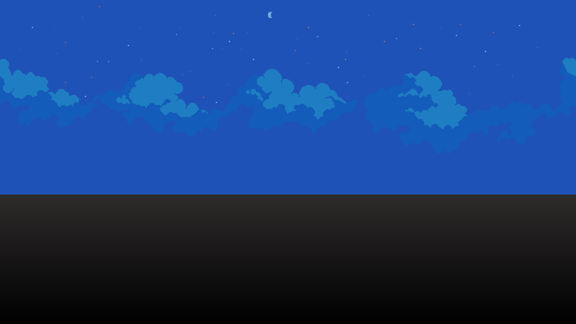
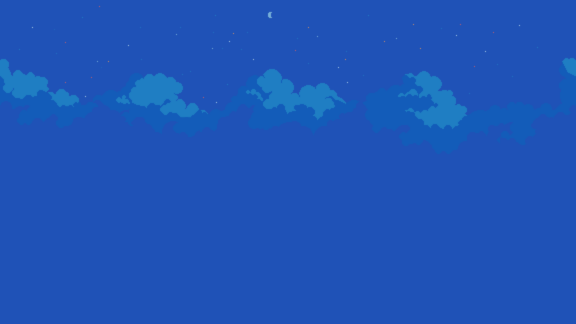
Ajout Image fond et Sprite animé

diff --git a/main.py b/main.py
@@ -2,21 +2,10 @@ import pygame
 import time
 
 # Variables Globales
-# Fenetre
-L = 1300
-H = 800
-
-# Perso
-x = L // 2
-y = H // 2
+L, H = 1300, 800
+x, y = (L-256) // 2, H // 2
 force_vert = 0
 gravite = 0.2
-
-# Utilitaires
-distance = 0
-couleur = (153, 255, 255)
-
-# Fond
 fond_x = 0
 vitesse_fond = 2
 
@@ -24,13 +13,21 @@ def run():
     global fond_x, y, force_vert
     pygame.init()
     clock = pygame.time.Clock()
-    pygame.display.set_caption("Get What U Need")
     screen = pygame.display.set_mode((L, H))
+    pygame.display.set_caption("Get What U Need")
+
+    # Animation
+    frame_index = 0
+    vitesse_anim = 0.13
+
+    # Assets
+    bg_img = pygame.image.load("assets/graphics/environment/background/ville/1.png").convert()
+    bg_img = pygame.transform.scale(bg_img, (L, H))
     
-    x = L // 2
-    y = H // 2
-    force_vert = 0
-    gravite = 0.2
+    p_img = pygame.image.load("assets/graphics/characters/player/run.png").convert_alpha()
+    p_img = pygame.transform.scale(p_img, (2560, 320))
+
+    limite_sol = H - 100 - 320
 
     while True:
         for event in pygame.event.get():
@@ -38,39 +35,43 @@ def run():
                 pygame.quit()
                 return
         
-        pygame.display.set_caption("Get What U Need - {}".format(time.strftime("%Hh%M")))
-        screen.fill((255, 255, 255))
-
+        # Logique de mouvement et saut
         touches = pygame.key.get_pressed()
-        if touches[pygame.K_SPACE] and y == H - 200: force_vert = -10
+        if touches[pygame.K_SPACE] and y >= limite_sol:
+            force_vert = -10
 
+        # Background
         fond_x -= vitesse_fond
-        if fond_x < -2 * L:
+        if fond_x <= -L:
             fond_x = 0
 
-        pygame.draw.rect(screen, (153, 255, 255), (fond_x, 0, L, H))
-        pygame.draw.rect(screen, (204, 255, 255), (fond_x + L, 0, L, H))
-        pygame.draw.rect(screen, (153, 255, 255), (fond_x + L * 2, 0, L, H))
-
+        # Affichage
+        screen.fill((255, 255, 255))
+        screen.blit(bg_img, (fond_x, 0))
+        screen.blit(bg_img, (fond_x + L, 0))
+        
         # Sol
         pygame.draw.rect(screen, (100, 100, 100), (0, H - 100, L, 100))
 
-        # Perso
+        # Physique Perso
         force_vert += gravite
         y += force_vert
 
-        if y > H - 200:
-            y = H - 200
+        if y > limite_sol:
+            y = limite_sol
             force_vert = 0
-        pygame.draw.rect(screen, (0, 0, 0), (x, y, 100, 100))
-        pygame.display.flip()
 
+        # Animation Perso
+        frame_index += vitesse_anim
+        if frame_index >= 8:
+            frame_index = 0
+
+        zone_decoupe = (int(frame_index) * 320, 0, 320, 320)
+        screen.blit(p_img, (x, y), zone_decoupe)
+
+        pygame.display.set_caption(f"Get What U Need - {time.strftime('%Hh%M')}")
+        pygame.display.flip()
         clock.tick(120)
 
-
-
 if __name__ == "__main__":
-    print("-----------------")
-    print("Le jeu est lancé")
     run()
-    print("Le jeu est terminé")
